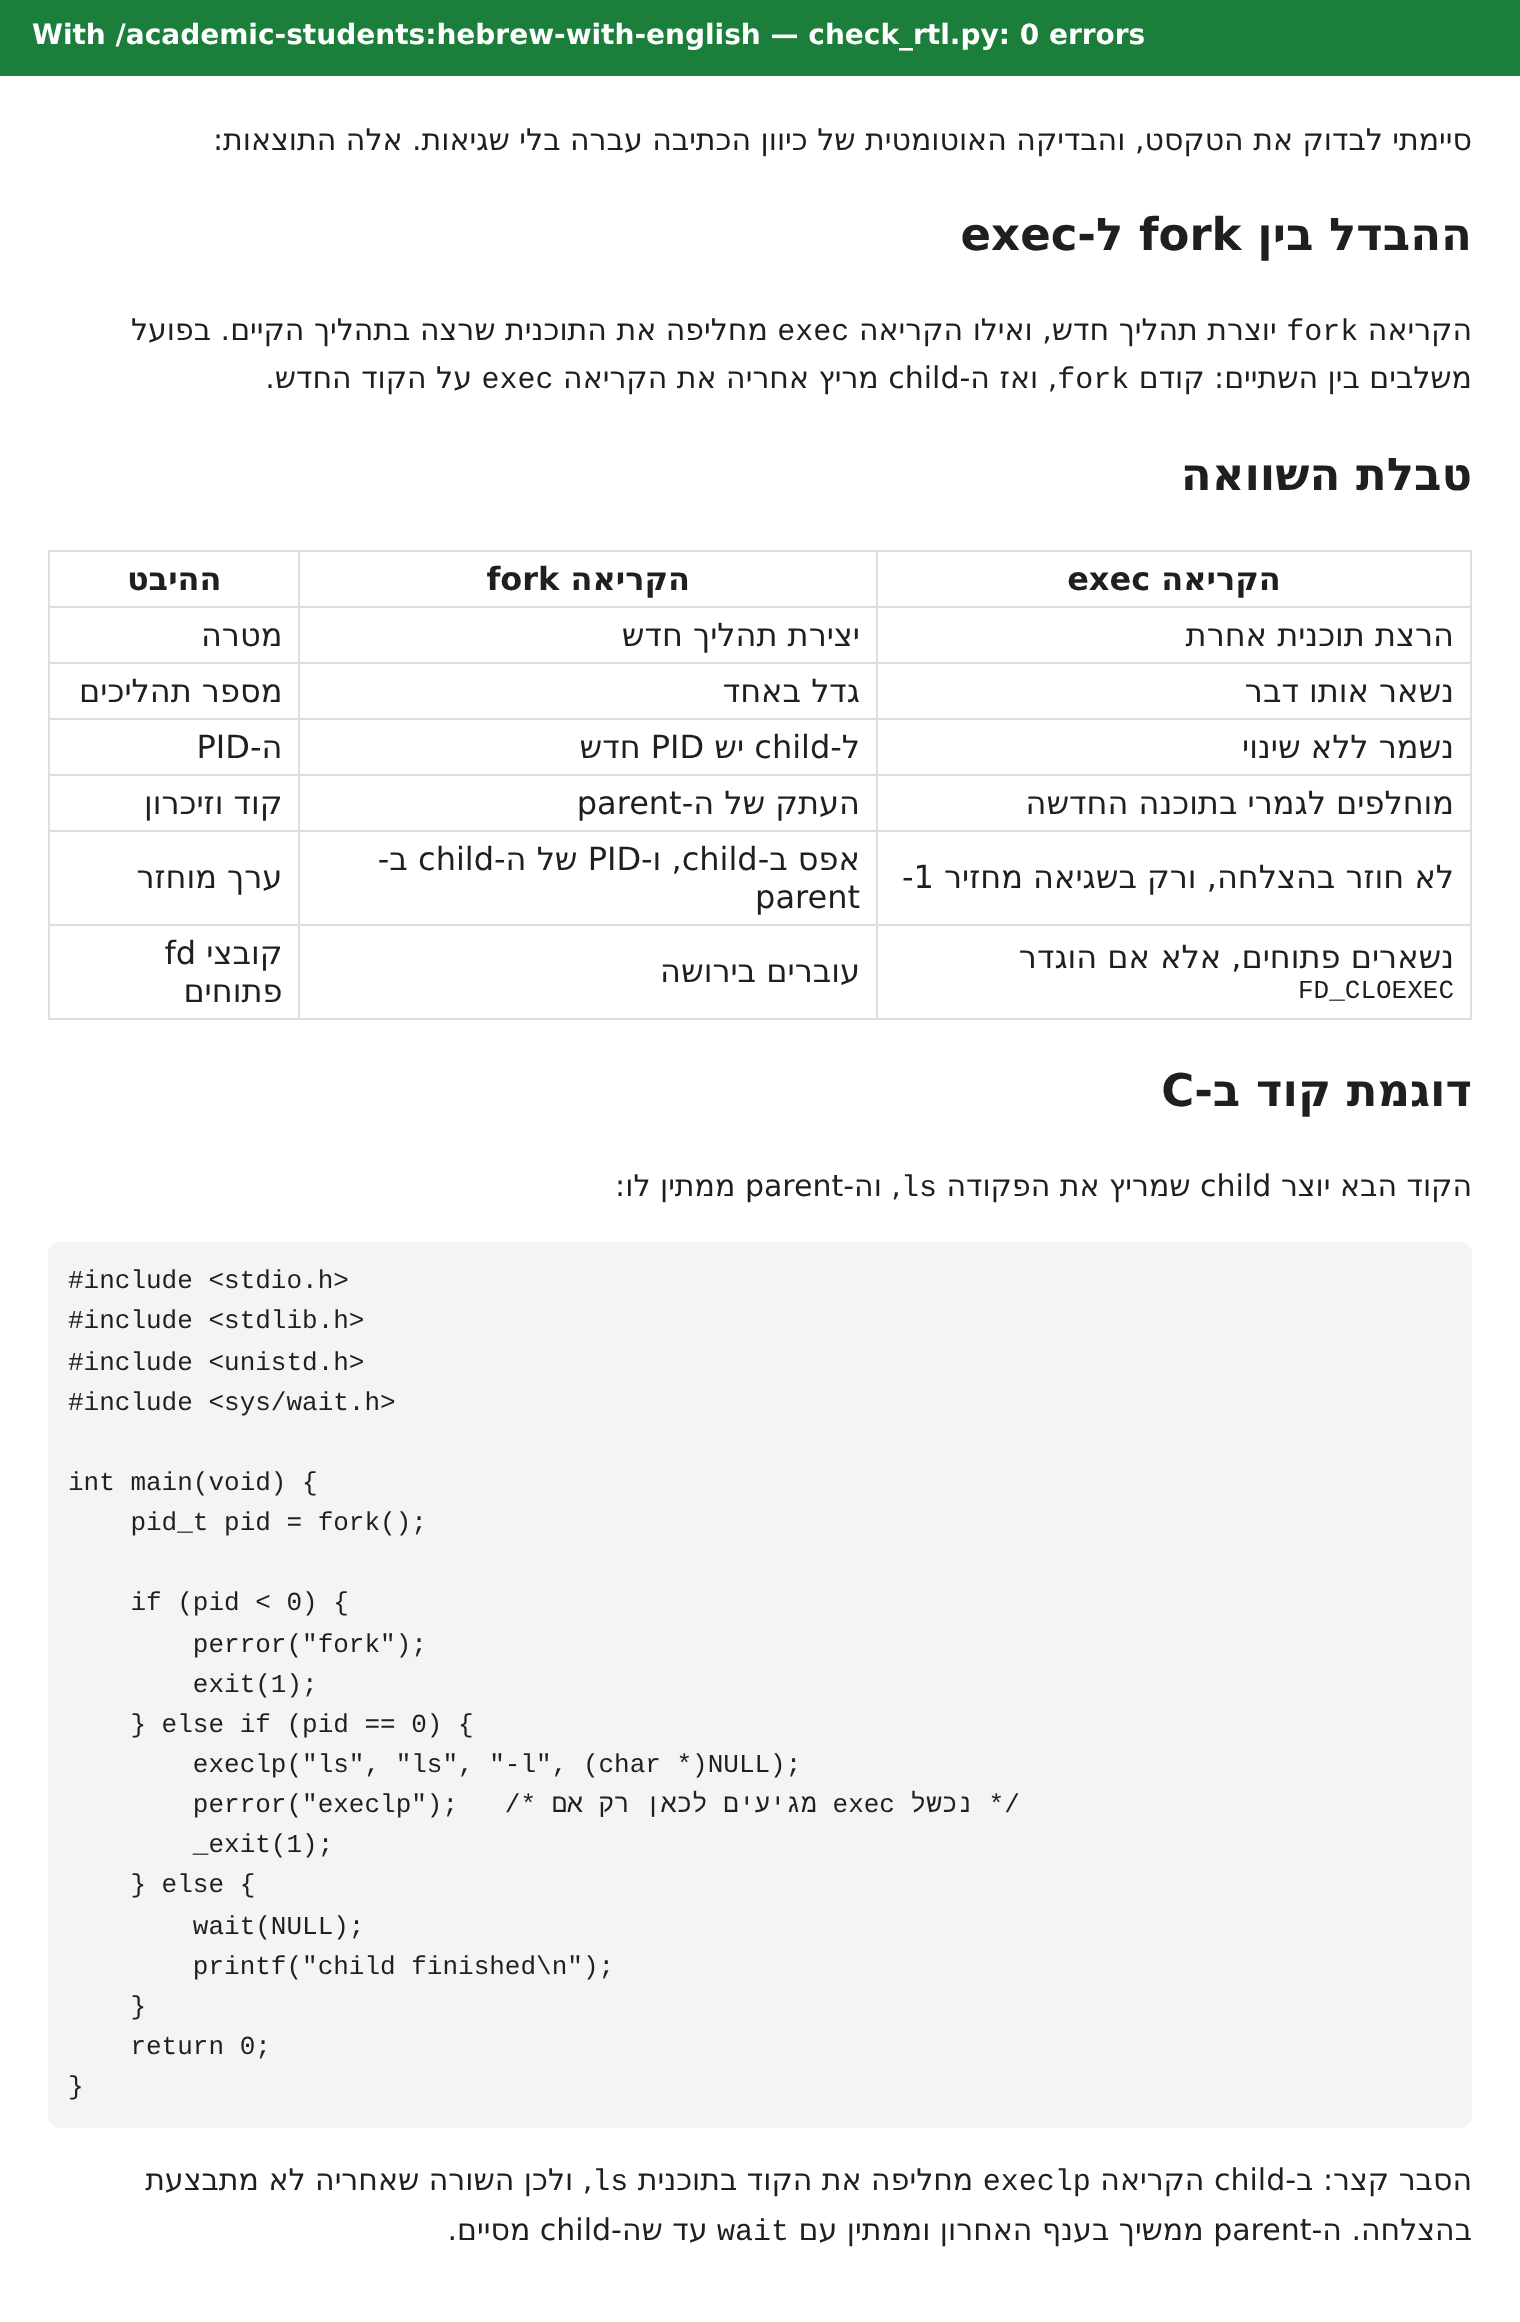
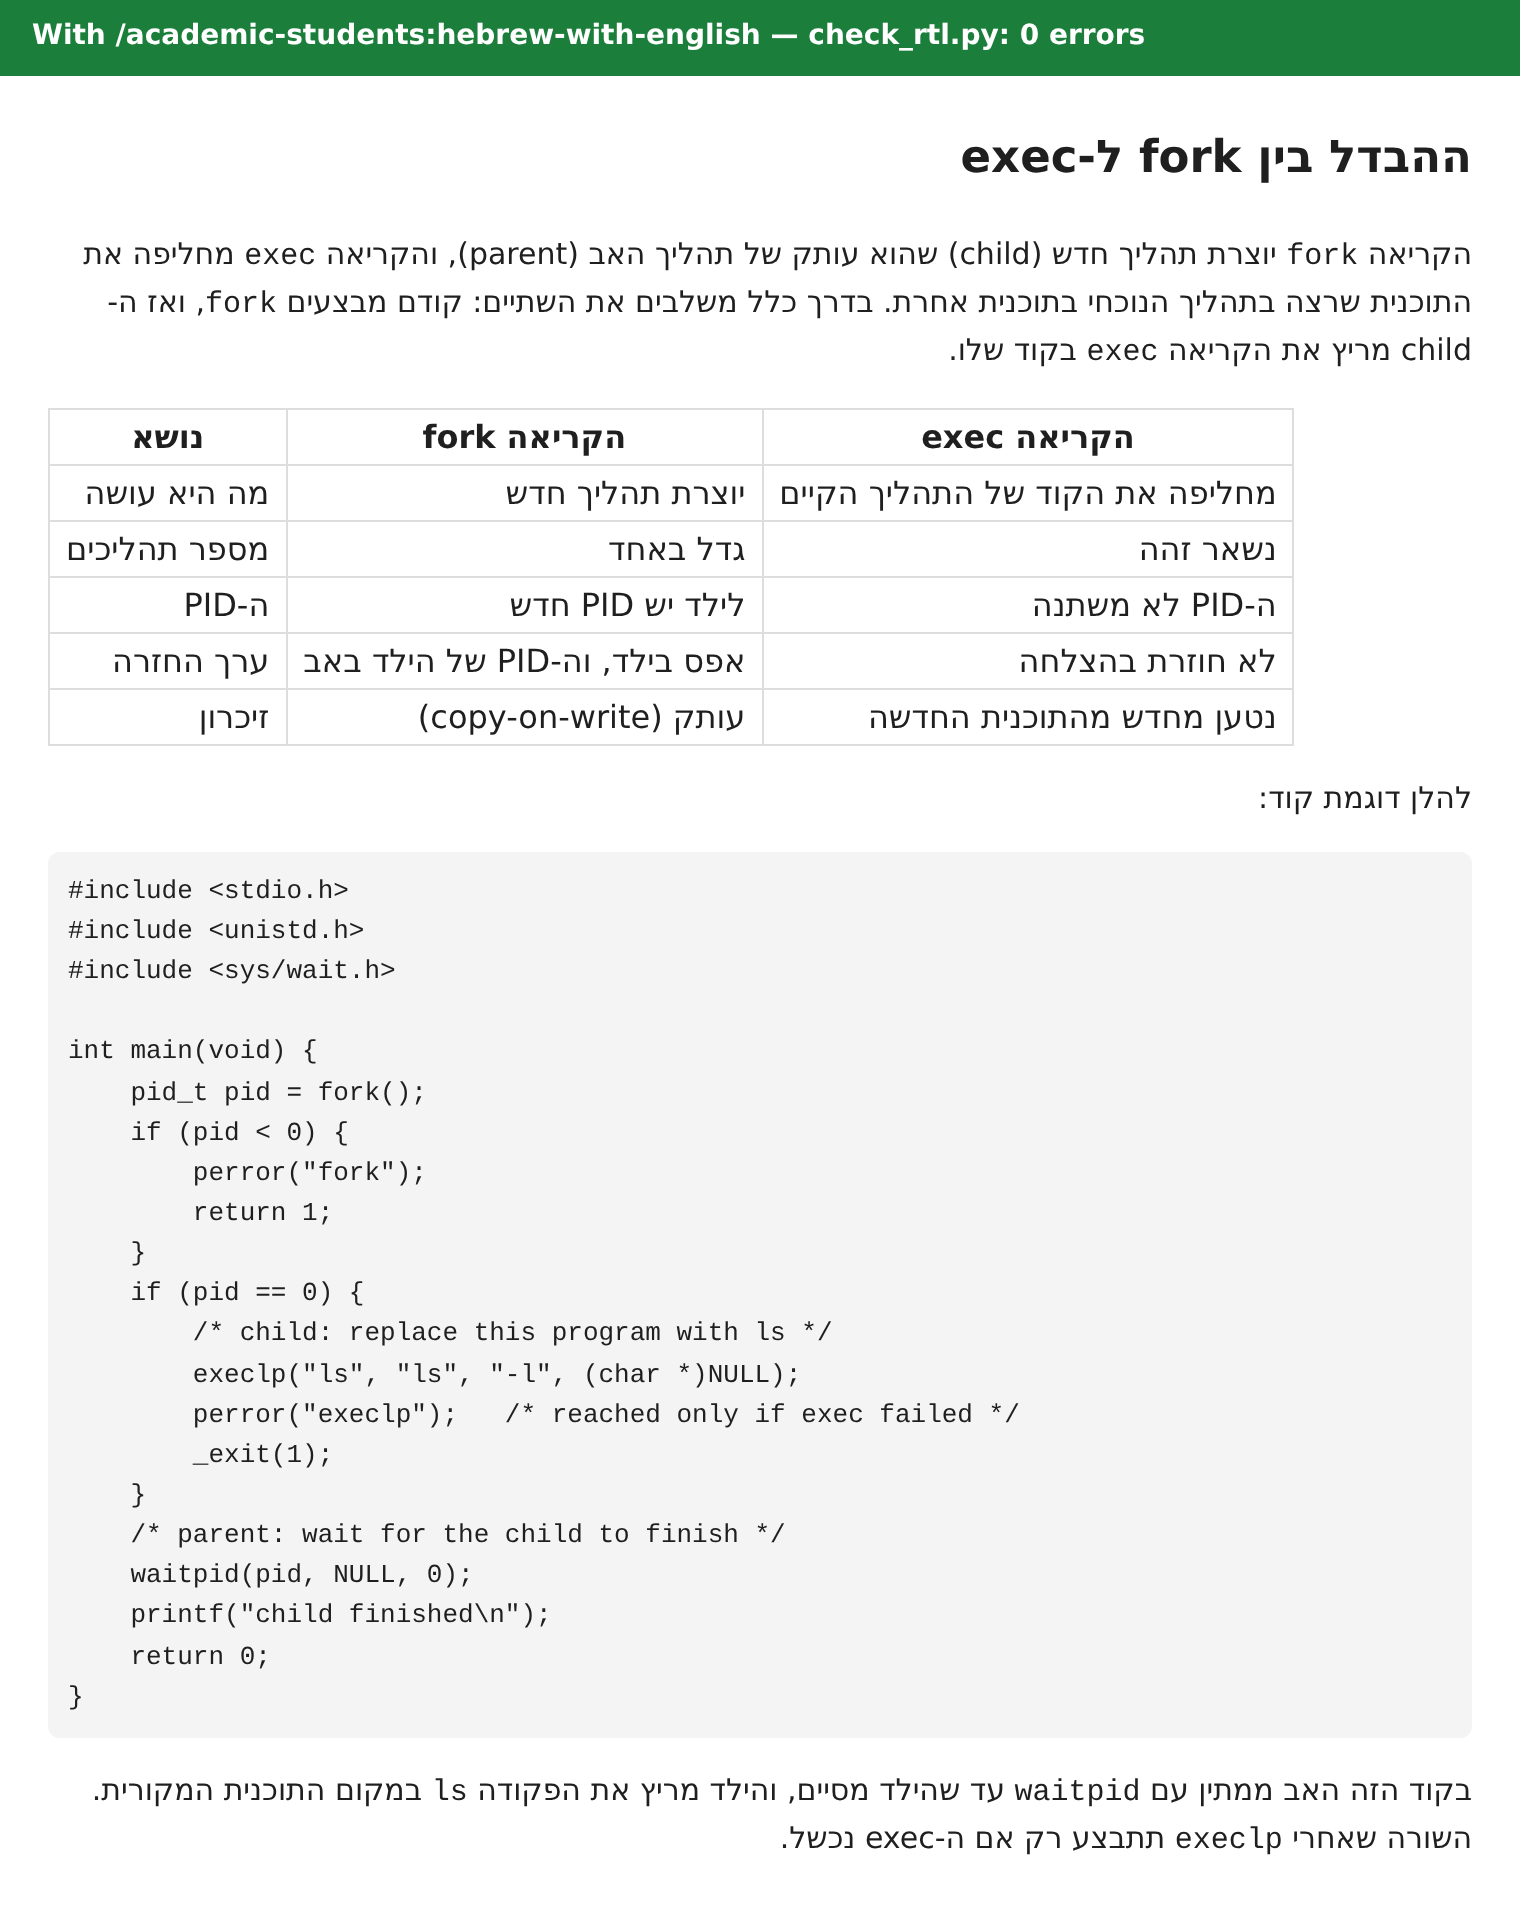
docs: regenerate the 'after' example with English code comments; recount 'before' with the stricter checker (11 errors)
Claude-Session: https://claude.ai/code/session_014kpWGwpRfk149oRcGLtTmr

diff --git a/docs/images/hebrew-after.md b/docs/images/hebrew-after.md
@@ -1,46 +1,39 @@
-סיימתי לבדוק את הטקסט, והבדיקה האוטומטית של כיוון הכתיבה עברה בלי שגיאות. אלה התוצאות:
-
 ## ההבדל בין fork ל-exec
 
-הקריאה `fork` יוצרת תהליך חדש, ואילו הקריאה `exec` מחליפה את התוכנית שרצה בתהליך הקיים. בפועל משלבים בין השתיים: קודם `fork`, ואז ה-child מריץ אחריה את הקריאה `exec` על הקוד החדש.
+הקריאה `fork` יוצרת תהליך חדש (child) שהוא עותק של תהליך האב (parent), והקריאה `exec` מחליפה את התוכנית שרצה בתהליך הנוכחי בתוכנית אחרת. בדרך כלל משלבים את השתיים: קודם מבצעים `fork`, ואז ה-child מריץ את הקריאה `exec` בקוד שלו.
 
-## טבלת השוואה
-
-| ההיבט | הקריאה fork | הקריאה exec |
+| נושא | הקריאה fork | הקריאה exec |
 |---|---|---|
-| מטרה | יצירת תהליך חדש | הרצת תוכנית אחרת |
-| מספר תהליכים | גדל באחד | נשאר אותו דבר |
-| ה-PID | ל-child יש PID חדש | נשמר ללא שינוי |
-| קוד וזיכרון | העתק של ה-parent | מוחלפים לגמרי בתוכנה החדשה |
-| ערך מוחזר | אפס ב-child, ו-PID של ה-child ב-parent | לא חוזר בהצלחה, ורק בשגיאה מחזיר 1- |
-| קובצי fd פתוחים | עוברים בירושה | נשארים פתוחים, אלא אם הוגדר `FD_CLOEXEC` |
+| מה היא עושה | יוצרת תהליך חדש | מחליפה את הקוד של התהליך הקיים |
+| מספר תהליכים | גדל באחד | נשאר זהה |
+| ה-PID | לילד יש PID חדש | ה-PID לא משתנה |
+| ערך החזרה | אפס בילד, וה-PID של הילד באב | לא חוזרת בהצלחה |
+| זיכרון | עותק (copy-on-write) | נטען מחדש מהתוכנית החדשה |
 
-## דוגמת קוד ב-C
-
-הקוד הבא יוצר child שמריץ את הפקודה `ls`, וה-parent ממתין לו:
+להלן דוגמת קוד:
 
 ```c
 #include <stdio.h>
-#include <stdlib.h>
 #include <unistd.h>
 #include <sys/wait.h>
 
 int main(void) {
     pid_t pid = fork();
-
     if (pid < 0) {
         perror("fork");
-        exit(1);
-    } else if (pid == 0) {
-        execlp("ls", "ls", "-l", (char *)NULL);
-        perror("execlp");   /* מגיעים לכאן רק אם exec נכשל */
-        _exit(1);
-    } else {
-        wait(NULL);
-        printf("child finished\n");
+        return 1;
     }
+    if (pid == 0) {
+        /* child: replace this program with ls */
+        execlp("ls", "ls", "-l", (char *)NULL);
+        perror("execlp");   /* reached only if exec failed */
+        _exit(1);
+    }
+    /* parent: wait for the child to finish */
+    waitpid(pid, NULL, 0);
+    printf("child finished\n");
     return 0;
 }
 ```
 
-הסבר קצר: ב-child הקריאה `execlp` מחליפה את הקוד בתוכנית `ls`, ולכן השורה שאחריה לא מתבצעת בהצלחה. ה-parent ממשיך בענף האחרון וממתין עם `wait` עד שה-child מסיים.
+בקוד הזה האב ממתין עם `waitpid` עד שהילד מסיים, והילד מריץ את הפקודה `ls` במקום התוכנית המקורית. השורה שאחרי `execlp` תתבצע רק אם ה-exec נכשל.

diff --git a/README.he.md b/README.he.md
@@ -17,7 +17,7 @@
 אותה בקשה, אותו מודל, שתי הרצות, ומוצגות כמו בממשק צ'אט (הכיוון של כל פסקה נקבע לפי האות הראשונה שלה, כמו בצ'אט אמיתי).
 הבקשה הייתה: "תסביר לי בקצרה את ההבדל בין fork ל-exec ב-Linux, עם טבלת השוואה קצרה ודוגמת קוד ב-C".
 
-בלי הפלאגין, הבודק `check_rtl.py` מוצא **8 שגיאות**: שורות שמתחילות בקריאה `fork` מתהפכות לשמאל-לימין והמשפט מתפרק.
+בלי הפלאגין, הבודק `check_rtl.py` מוצא **11 שגיאות**: שורות שמתחילות בקריאה `fork` מתהפכות לשמאל-לימין והמשפט מתפרק.
 
 תמונה: ![בלי הפלאגין](docs/images/hebrew-before.png)
 
@@ -89,7 +89,7 @@ uv run --directory <plugin>/servers/moodle-mcp moodle-mcp login https://moodle.y
 מה נמדד עד עכשיו:
 
 - הסורק: על 312 קבצים סינתטיים ב-13 טכניקות הסתרה, בעברית ובאנגלית, דווחו 100% מההוראות הנסתרות ברמה HIGH ומעלה, ואף אחד מ-78 הקבצים הנקיים לא סומן. את הקבצים כתבנו בעצמנו, ולכן זו בדיקת רגרסיה ולא הבטחה מול התקפות לא מוכרות. הפרטים נמצאים בקובץ [benchmark/README.md](skills/prompt-injection-scanner/benchmark/README.md).
-- העברית: ראו את ההשוואה למעלה, מ-8 שגיאות RTL ל-0 על אותה בקשה.
+- העברית: ראו את ההשוואה למעלה, מ-11 שגיאות RTL ל-0 על אותה בקשה.
 
 שיעורי המעבר של בדיקות ההתנהגות יופיעו כאן אחרי שירוצו. שום דבר לא נטען לפני שנמדד.
 

diff --git a/README.md b/README.md
@@ -26,8 +26,8 @@ table and a C example").
 
 | Without the plugin | With `/academic-students:hebrew-with-english` |
 |---|---|
-| ![Without the plugin: bullets that start with `fork()` flip to left-to-right and the sentence breaks apart; 8 RTL errors](docs/images/hebrew-before.png) | ![With the skill: every line opens with a Hebrew word, the table and the code read correctly; 0 RTL errors](docs/images/hebrew-after.png) |
-| `check_rtl.py`: **8 errors** | `check_rtl.py`: **0 errors** |
+| ![Without the plugin: bullets that start with `fork()` flip to left-to-right and the sentence breaks apart; 11 RTL errors](docs/images/hebrew-before.png) | ![With the skill: every line opens with a Hebrew word, the table and the code read correctly; 0 RTL errors](docs/images/hebrew-after.png) |
+| `check_rtl.py`: **11 errors** | `check_rtl.py`: **0 errors** |
 
 Both replies are real, unedited outputs (`claude -p`, 2026-11-03), kept as text in
 [`docs/images/hebrew-before.md`](docs/images/hebrew-before.md) and [`docs/images/hebrew-after.md`](docs/images/hebrew-after.md)
@@ -99,7 +99,7 @@ Measured so far:
   instructions reported at HIGH or above, 0 of 78 clean look-alikes flagged. The corpus was written by the same
   project, so this is a regression check, not a claim about unknown attacks. Details and the reproduce command:
   [`benchmark/README.md`](skills/prompt-injection-scanner/benchmark/README.md).
-- **Hebrew rendering:** see the before/after above (8 → 0 RTL errors on the same prompt).
+- **Hebrew rendering:** see the before/after above (11 → 0 RTL errors on the same prompt).
 
 Eval pass rates will appear here once the evals have been run. Nothing is claimed before it is measured.
 
